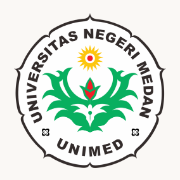
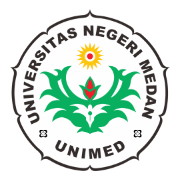
feat: add documentation, static assets, and core shared utilities

diff --git a/src/web/components/shared/BoothCard.tsx b/src/web/components/shared/BoothCard.tsx
@@ -254,7 +254,7 @@ export function BoothCard({
         {/* Baris institusi/fakultas selalu disisakan (tinggi tetap) agar kartu tetap seragam walau datanya kosong. */}
         <span
           title={booth.teamName ?? undefined}
-          className="block h-4 truncate text-xs font-semibold text-muted"
+          className="block h-4 truncate pr-11 text-xs font-semibold text-muted"
         >
           {booth.teamName}
         </span>
@@ -377,7 +377,7 @@ function FeaturedMini({ booth }: { booth: PublicBooth }) {
   const p = booth.featuredProduct;
   if (!p) return null;
   return (
-    <div className="relative z-10 flex items-center gap-3 rounded-card bg-surface-raised/70 p-2 text-text">
+    <div className="relative z-10 flex w-fit max-w-full items-center gap-3 rounded-card bg-surface-raised/70 p-2 pr-4 text-text md:max-w-[calc(100%-14rem)]">
       <SafeImage
         src={resolve(p.thumbKey)}
         aspect="1/1"

diff --git a/src/worker/lib/page-meta.ts b/src/worker/lib/page-meta.ts
@@ -355,7 +355,8 @@ export function buildManifest(eventName: string) {
     theme_color: "#1eb05f",
     icons: [
       { src: "/icon-192.png", sizes: "192x192", type: "image/png" },
-      { src: "/icon-512.png", sizes: "512x512", type: "image/png", purpose: "any maskable" },
+      { src: "/icon-512.png", sizes: "512x512", type: "image/png", purpose: "any" },
+      { src: "/icon-maskable-512.png", sizes: "512x512", type: "image/png", purpose: "maskable" },
     ],
   };
 }

diff --git a/src/shared/food-art.test.ts b/src/shared/food-art.test.ts
@@ -30,6 +30,7 @@ describe("ilustrasi makanan pengganti foto", () => {
       "apple-touch-icon.png",
       "icon-192.png",
       "icon-512.png",
+      "icon-maskable-512.png",
     ]) {
       expect(existsSync(file(f)), f).toBe(true);
     }

diff --git a/docs/DECISIONS.md b/docs/DECISIONS.md
@@ -241,6 +241,8 @@
 | **Ikon tab = lambang UNIMED; pratinjau tautan disempurnakan (B27):** `favicon.ico`, `icon-192/512`, `apple-touch-icon` dibuat dari `public/brand/unimed-seal.png` (lambang UNIMED polos kiriman pemilik proyek) di atas krem (`npm run build:art`); `lppm-seal.png` (bertulisan LPPM) tidak dipakai. Pratinjau (WhatsApp/Telegram/Facebook/X): `og:title` **ringkas** terpisah dari `<title>` (booth: `{Nama} · {Institusi}`, produk: `{Produk} · {Booth}`; nama acara di `og:site_name`), deskripsi 1 baris ≤160 huruf (tagline → institusi → "Mampir ke booth {Nama} ({No}) di {Acara}"), `og:image:type`, `og:image:secure_url` bila https, ukuran pasti untuk kartu bawaan. Gambar OG beranda = kartu bawaan 1200×630 atau gambar OG unggahan admin (foto hero 480px tidak lagi dipakai). Diuji dengan crawler ber-UA WhatsApp: semua halaman 200, gambar 1200×630 PNG < 300 KB | Permintaan pemilik proyek |
 | **Komentar review KEMBALI opsional; hanya bintang wajib (membatalkan keputusan "cerita singkat wajib"):** review tanpa komentar diterima (201) dan dihitung. **Daftar ulasan booth menampilkan review hanya-bintang** (nama + bintang + kategori + keterangan "Hanya memberi bintang", tanpa tombol Laporkan), baik di halaman booth maupun portal booth; review **berkomentar yang ditahan/disembunyikan tetap tidak tampil sama sekali** (B25). Umpan "Ulasan terbaru" lintas booth tetap hanya yang berkomentar; bila rating disembunyikan admin, review tanpa komentar tidak ditampilkan (tak ada yang bisa ditampilkan). `PublicReview.text` kini `string \| null` | Koreksi pemilik proyek: yang wajib hanya bintang |
 | **Tahan foto yang datang belakangan (B26/B27):** (1) `SafeImage` tidak lagi menambah `h-auto` bila pemanggil menetapkan `h-*`/`size-*` (bentrok kelas membuat foto potret tinggi meledak ke 4485 px); (2) grid booth dan etalase produk dalam mode foto: **semua kartu punya slot visual yang sama** (4:3 booth, 1:1 produk), yang tanpa foto/gagal diisi **ubin ilustrasi makanan**, sehingga tinggi seragam saat sebagian booth mengunggah foto di tengah event; (3) tinggi minimum Sorotan sama untuk tata letak foto dan hanya-teks (tidak melompat saat berotasi), foto sorotan bertinggi tetap (`h-44`/`md:h-72`); (4) produk andalan beralih ke hanya-teks bila fotonya gagal (tanpa kolom kosong); (5) Layar Besar `h-dvh overflow-hidden` (proyektor tak boleh bergulir). Uji stres peramban `scripts/e2e/photo-stress.mjs` (foto panorama/potret/kecil/besar/rusak disuntikkan lewat intersepsi, HP–1920 px): tanpa gulir mendatar, kartu seragam per baris, gambar tidak keluar wadah, tanpa gambar rusak. Sisa: lonjakan tata letak kecil di halaman booth saat produk dimuat (ada juga tanpa foto, bukan akibat foto) | Permintaan pemilik proyek: antisipasi booth mengunggah gambar saat event berlangsung |
+| **Ikon tab = lambang UNIMED APA ADANYA, latar transparan (hanya bulatan):** `icon-512/192.png` dan `favicon.ico` transparan (sudut alfa 0); hanya `apple-touch-icon.png` (iOS mengisi transparan dengan hitam) dan `icon-maskable-512.png` (Android memotong bentuknya) memakai latar putih. Sebelumnya ada latar krem persegi buatan sendiri di belakang lambang | Koreksi pemilik proyek: seharusnya hanya bulat |
+| **Data presentasi dibuat lewat API (bukan data uji):** `scripts/e2e/seed-presentation.mjs` membuat event "Penilaian Booth Terfavorit LPPM Expo Tahun 2026" dengan 10 booth makanan khas Medan **tanpa foto dan hanya berisi nama + institusi/fakultas** (sesuai data nyata dari panitia: tidak ada nomor, tagline, deskripsi, maupun produk; `EXTRAS=1` menambahkan nomor/tagline/produk contoh untuk uji data lengkap), 37 pengunjung bernama, 77 review (±1/3 hanya bintang, ±10% anonim, komentar bervariasi tanpa kembar) dengan jeda agar tidak ditahan anti-spam; event lama diarsipkan (nama diberi "[Arsip uji]"). Hanya dev lokal (butuh login admin dev dan `devCode` OTP). Nama dan email pengunjung fiktif (`@example.com`, hanya tersimpan sebagai hash) | Permintaan pemilik proyek: data event dibuat nyata untuk presentasi, tanpa unggah gambar |
 | Tes yang menghitung `<img>` memakai `photoImgs()` (`src/web/test/render.tsx`) yang mengabaikan stiker `/art/…` | Stiker dekoratif bukan foto; aturan "tanpa gambar rusak/kosong" tetap diuji untuk foto sungguhan |
 
 ## Gaya kode (disetujui)

diff --git a/docs/STATUS.md b/docs/STATUS.md
@@ -16,6 +16,7 @@
 - **Cerita singkat wajib + tombol masuk footer + penjaga `/admin` selesai** (Vitest 1311/1311, build bersih). **Sebelum deploy**: pastikan Cloudflare Access aktif di `/admin*` dan secret `ACCESS_TEAM_DOMAIN`, `ACCESS_AUD`, `ADMIN_EMAILS` terisi; tanpa itu `/admin` dan `/api/admin/*` menjawab 403/401 (gagal tertutup, tidak terbuka).
 - **Ikon tab = lambang UNIMED dan SEO/OG disempurnakan.** Belum bisa diuji di produksi: pratinjau WhatsApp nyata di `https://eventunimed.id` (WhatsApp menyimpan cache pratinjau lama; tautan yang pernah dibagikan sebelum deploy mungkin tampil lama), Facebook Sharing Debugger, Rich Results Test. Keterbatasan: gambar OG booth tanpa foto = kartu ilustrasi makanan (tanpa nama booth di dalam gambar; nama ada di judul/deskripsi). OG dengan nama booth di dalam gambar butuh perenderan gambar di Worker (mis. satori + resvg-wasm), belum dibuat.
 - **Review: hanya bintang wajib** (komentar opsional; review hanya-bintang tampil di daftar ulasan). **Tahan foto belakangan** selesai dan diuji (lihat DECISIONS). Vitest 1328/1328 setelah perubahan ini (lihat gerbang terakhir).
+- **Data presentasi sudah di D1 lokal** (event aktif: 10 booth makanan, hanya nama + institusi/fakultas, tanpa foto/produk/nomor, 77 review; event uji lama diarsipkan). Ini hanya database LOKAL; produksi berisi data asli dari admin/impor CSV. Ulangi dengan `E2E_BASE=http://localhost:5173 node scripts/e2e/seed-presentation.mjs` (membuat event baru dan mengarsipkan yang aktif). Jadwal diatur lewat admin (event berlangsung sampai ±2 hari ke depan saat dibuat).
 - **Logo resmi LPPM UNIMED sudah terpasang** (diunduh dari lppm.unimed.ac.id atas instruksi pemilik proyek; `public/brand/`). Konfirmasi izin pemakaian ke pimpinan LPPM bila perlu; ganti lewat unggahan logo di admin atau `npm run build:art -- --logo <berkas>` (kartu pratinjau) bila ada versi baru.
 - **Tahap berikutnya:** **uji ulang Chrome E2E (opsional bila diperlukan) & persiapan akun Cloudflare produksi / deploy perdana** bersama pemilik proyek (lihat `docs/DEPLOY.md` dan keputusan terbuka di `explore.md`).
 - **Git:** `9556f9c` (Tahap 0–5), `b9ff2ce` (6), `a3ab182` (7), `6bdcfd2` (8). **Pekerjaan Tahap 9, Tahap 10, peningkatan motion graphic/B23, sistem alert kanan atas persisten tanpa loader, tampilan bersih tanpa `PhotoFrame` saat gambar kosong, sistem ikon vektor animatif penuh (`Icon.tsx` + `Button.tsx`), perancangan ulang UI Admin (`EventWorkspace` + KPI/tab di `/admin/e/:id` + 2 kolom di `/admin`), komponen `InfoTip` pengganti tanda kurung, kontrol pemutar animasi terbang + `RevealSessionProvider`, serta perluasan menu Bagikan belum di-commit** (di working tree). Database D1 lokal telah dibersihkan hingga tersisa 1 event aktif contoh. Commit hanya atas permintaan pemilik proyek.
